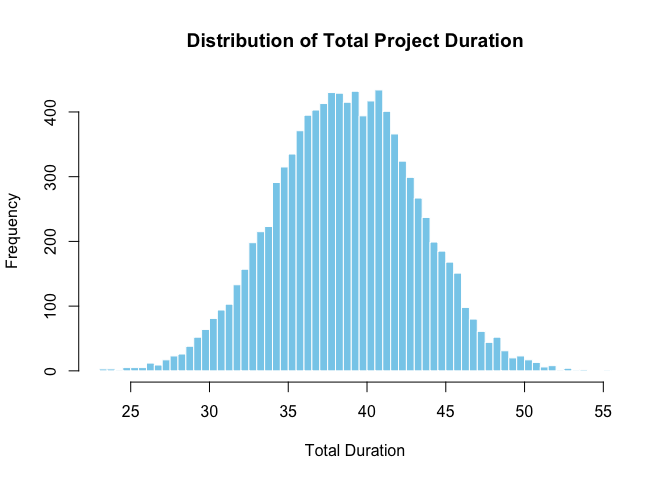
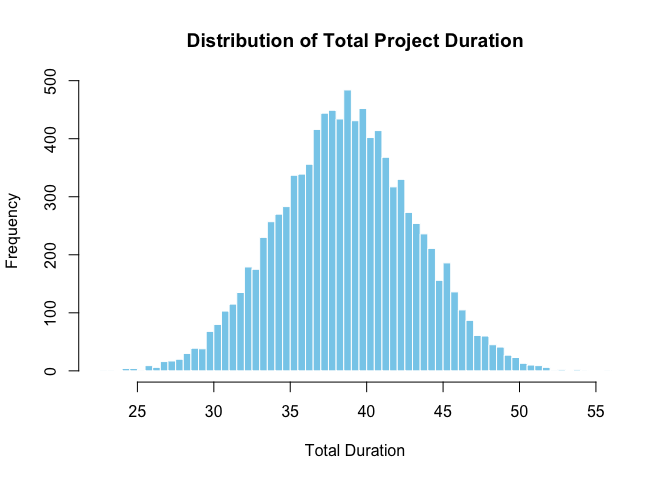
Update docs

diff --git a/README.md b/README.md
@@ -18,9 +18,16 @@ status](https://www.r-pkg.org/badges/version/PRA)](https://CRAN.R-project.org/pa
 [![DOI](https://zenodo.org/badge/815388332.svg)](https://zenodo.org/doi/10.5281/zenodo.12627130)
 <!-- badges: end -->
 
-Data Analysis for Project Risk Managment via the Second Moment Method
-(SMM), Monte Carlo (MC) Simulation, Bayesian methods, Design Structure
-Matrices (DSMs), and more.
+Data analysis for Project Risk Management via:
+
+- Second Moment Method
+- Monte Carlo Simulation
+- Contingency Analysis
+- Sensitivity Analysis
+- Earned Value Management
+- Learning Curves
+- Design Structure Matrices
+- And more.
 
 ## Installation
 
@@ -79,14 +86,14 @@ To calculate the mean of the total duration:
 
 ``` r
 cat("Mean Total Duration:", results$total_mean, "\n")
-#> Mean Total Duration: 38.66811
+#> Mean Total Duration: 38.64942
 ```
 
 To calculate the variance of the total duration:
 
 ``` r
 cat("Variance of Total Duration:", results$total_variance, "\n")
-#> Variance of Total Duration: 19.87372
+#> Variance of Total Duration: 19.87956
 ```
 
 To build a histogram of the total duration:
